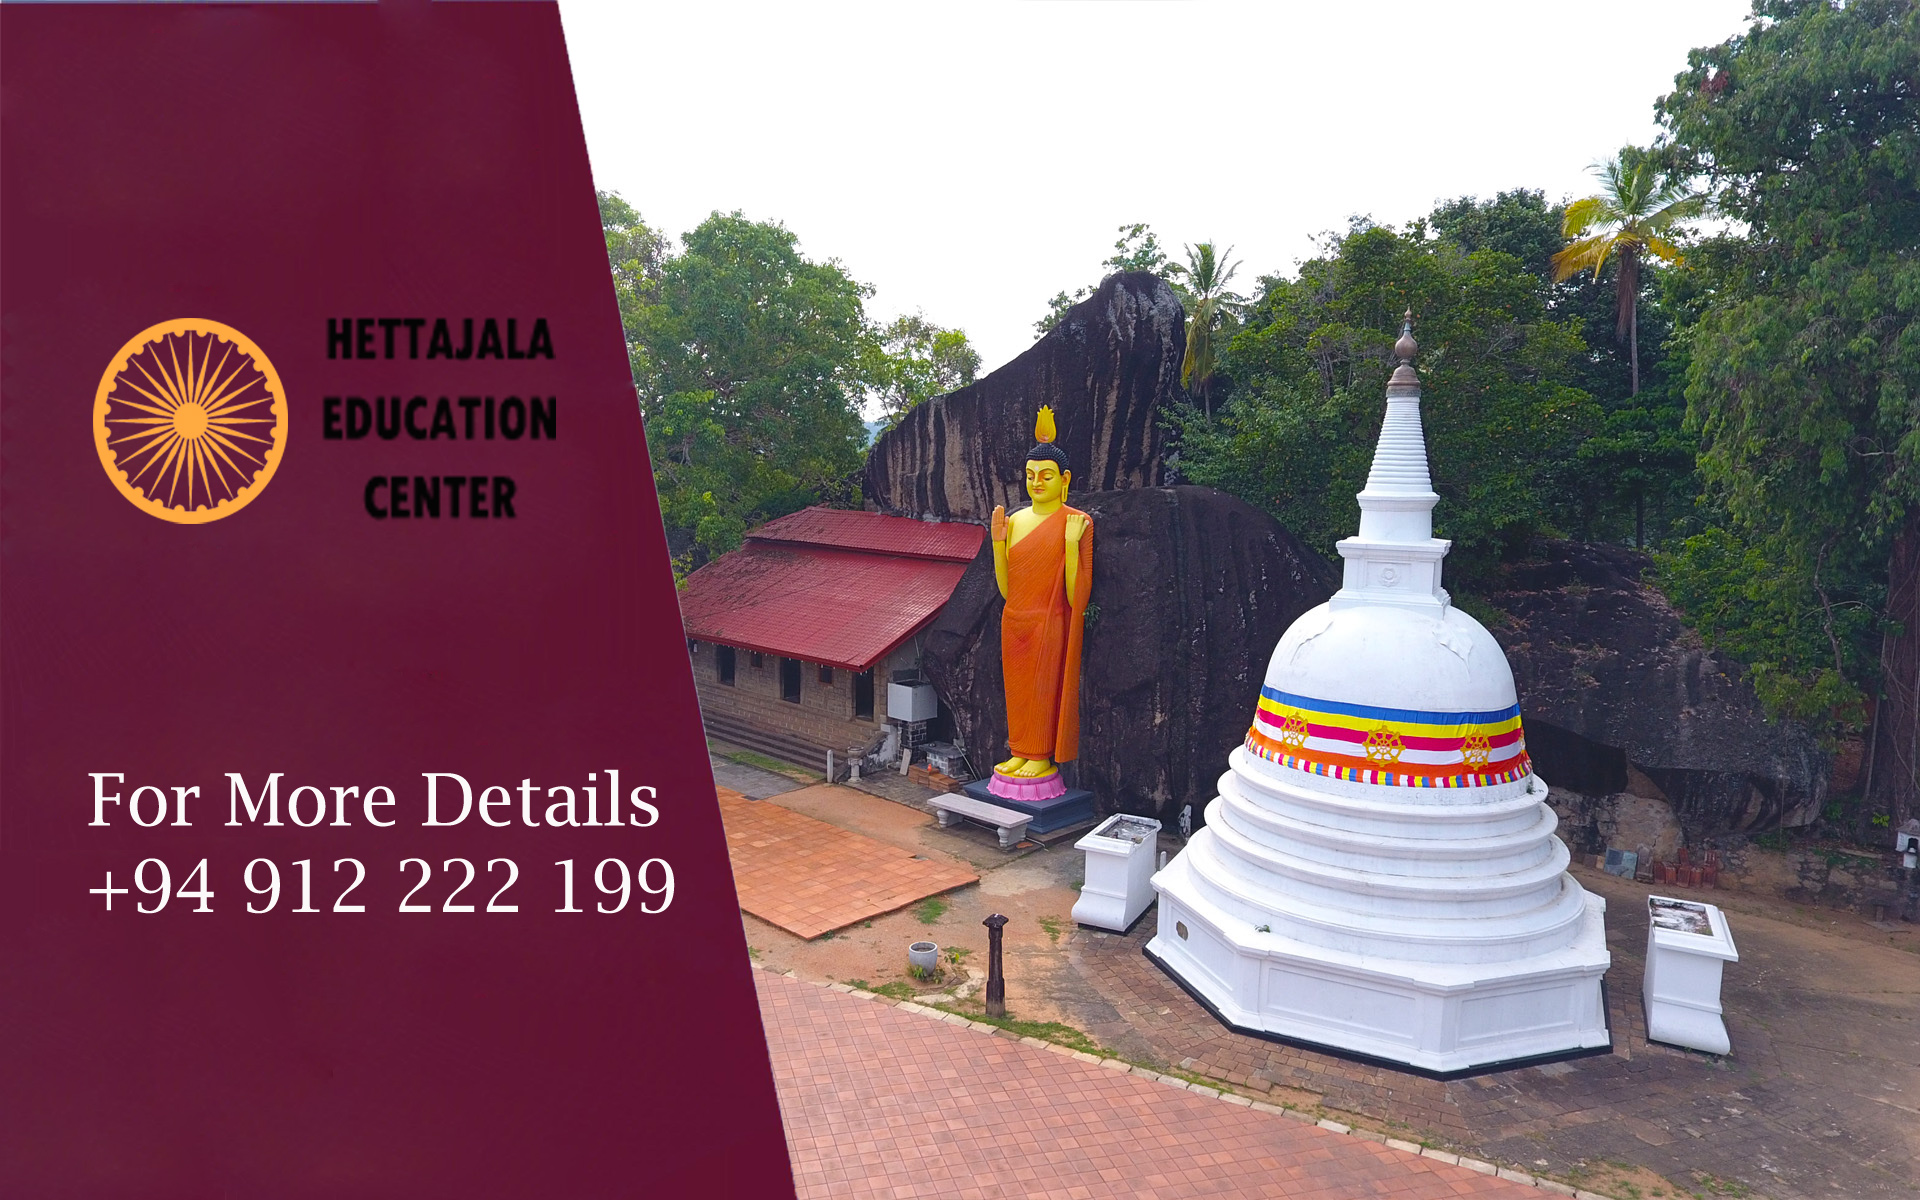
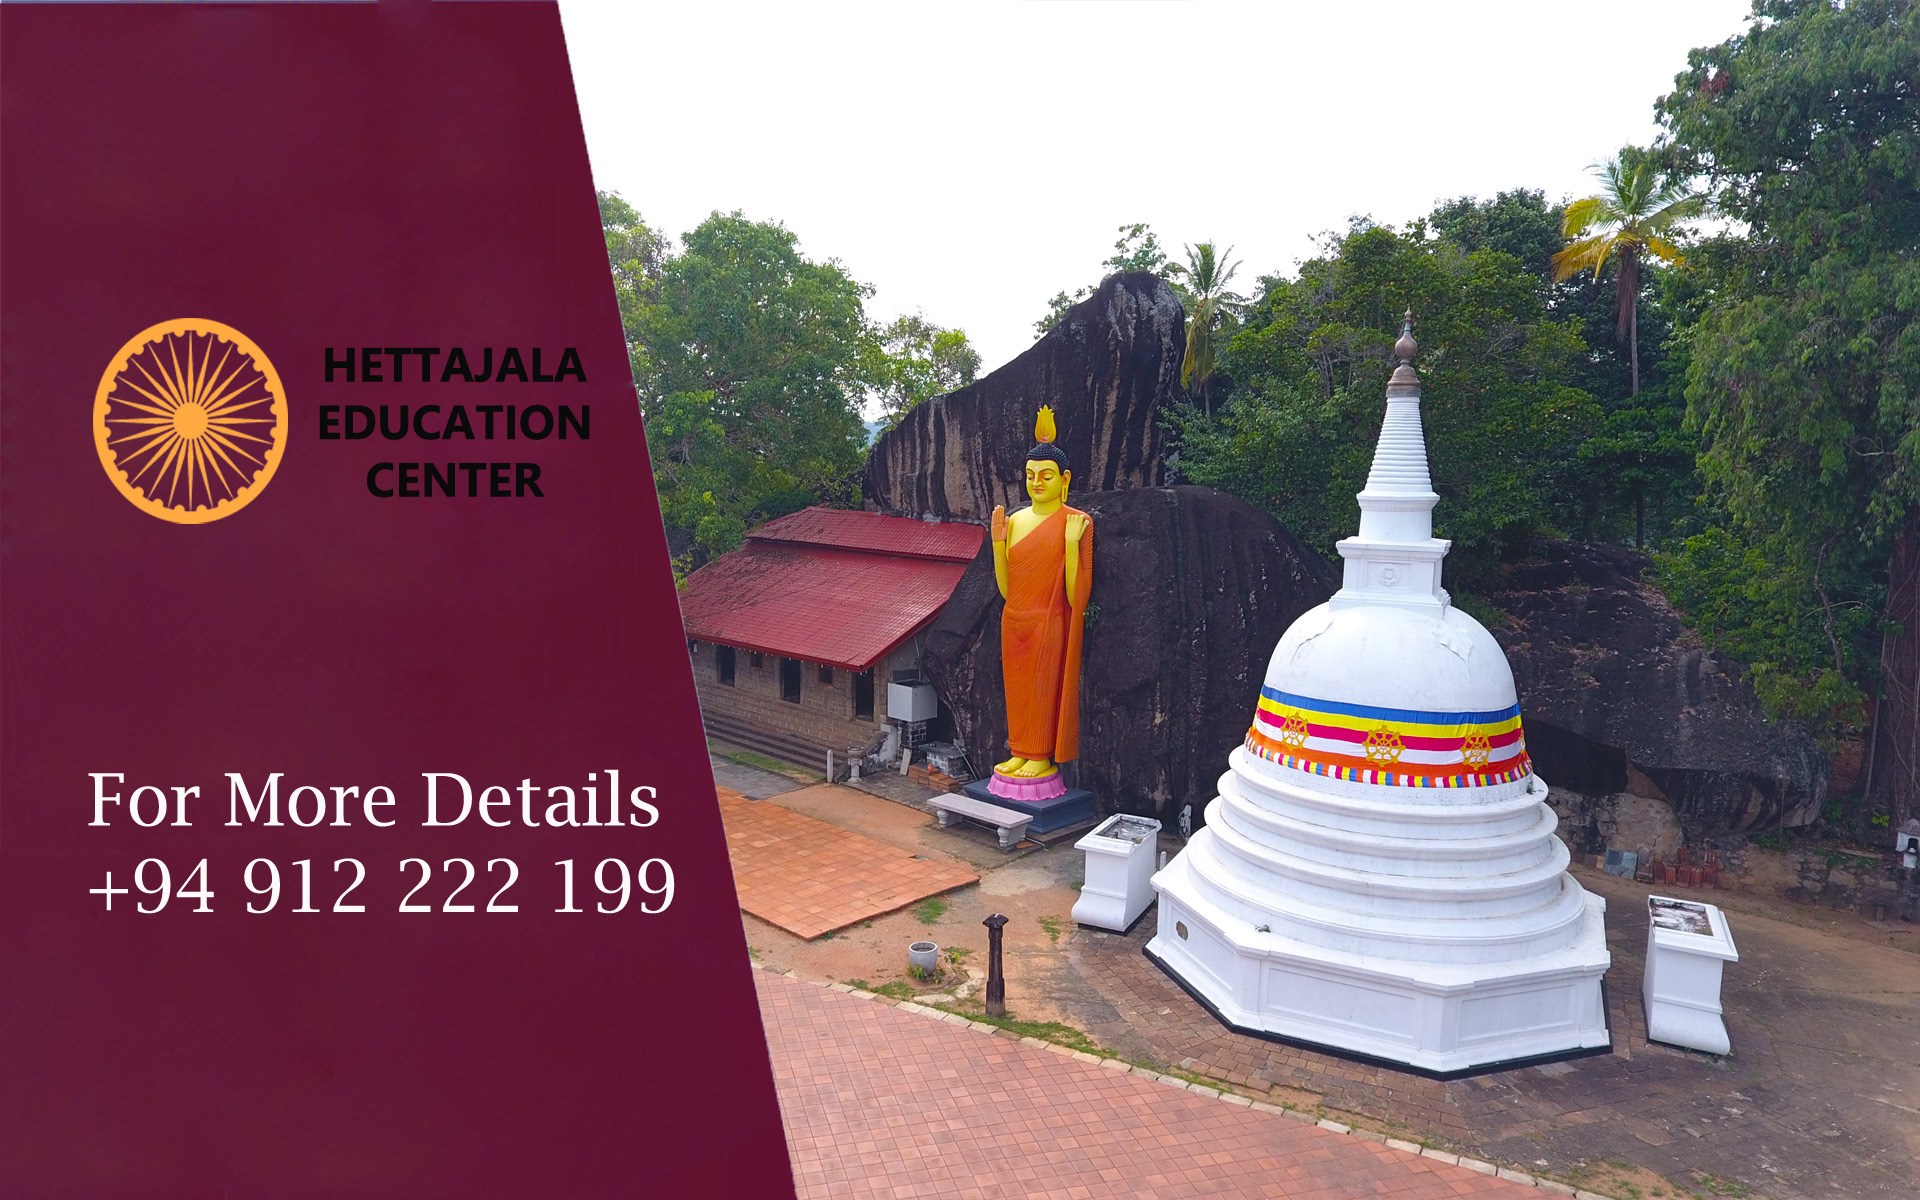
c

Changed region(s): [[0.1562, 0.2467, 0.3125, 0.4317]]

diff --git a/footer.php b/footer.php
@@ -24,7 +24,7 @@
 					<div class="footer">
 					<br><br><br>
             <ul class="footer-contact">
-              <li><i class="fa fa-map-marker"></i><b> Yatagala Raja Maha Viharaya, Unawatuna, Galle</b></li>
+              <li><i class="fa fa-map-marker"></i><b> Hettajala Education Center, Unawatuna, Galle</b></li>
               <br>
               <li><i class="fa fa-phone"></i><b> +94 912 222 199</b></li>
               <br>
@@ -38,7 +38,7 @@
 				<div class="col-md-4">
 					<div class="footer">
 						
-						<p>Have a visit and explore one of the ancient Buddhist vihara in Galle.</p>
+						<p>Have a visit and explore Hettajala Education Center connected to Yatagala Raja Maha Viharaya.</p>
             <iframe src="https://www.google.com/maps/d/u/0/embed?mid=10ETw_UXPe09Y2nsNfSZnHJRrs_b7VREM" width="100%" height="100%"></iframe>
               <div>
 						

diff --git a/index.php b/index.php
@@ -6,8 +6,8 @@ include_once('header.php');
 	<header id="head">
 		<div class="container">
              <div class="heading-text">
-							<h1 class="animated flipInY delay1">Start Online Education</h1>
-							<p>Free Online education template for elearning and online education institute.</p>
+							<h1 class="animated flipInY delay1"></h1>
+							<p></p>
 						</div>
 
 					<div class="fluid_container">
